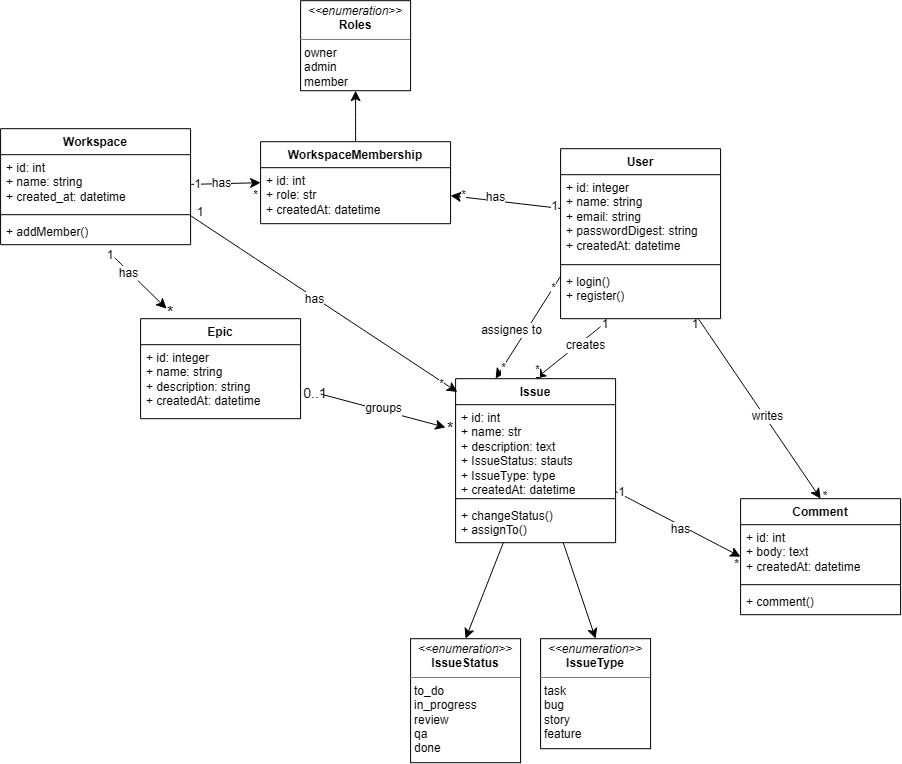
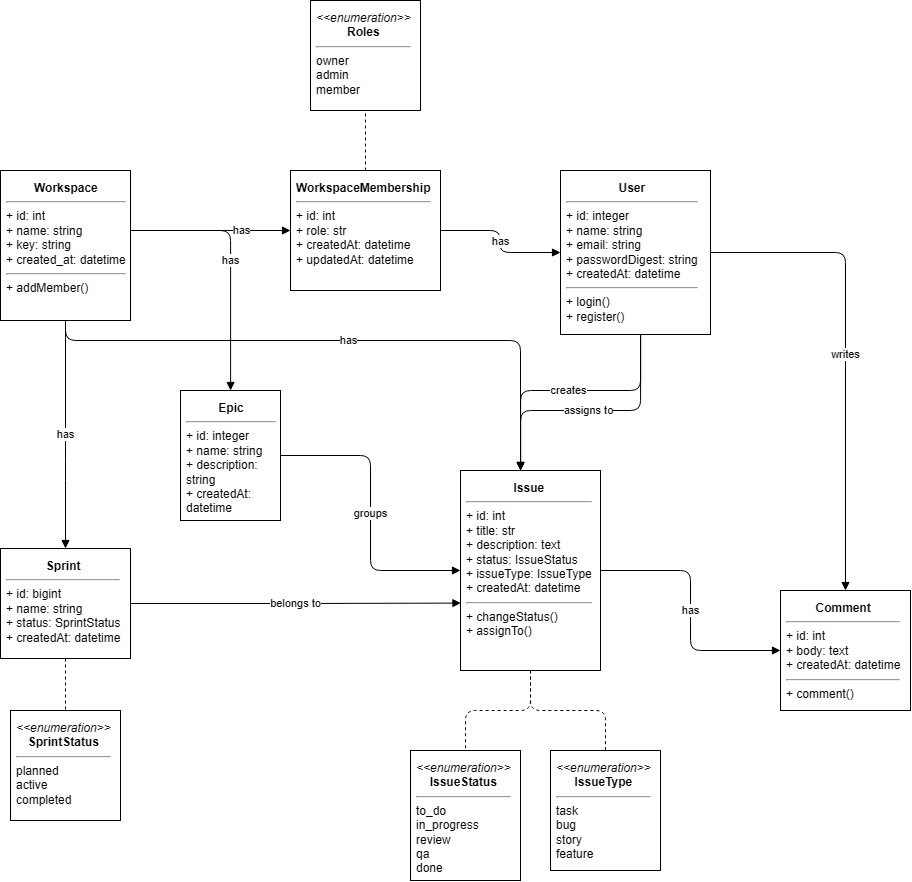
update docs staff

diff --git a/README.md b/README.md
@@ -9,17 +9,17 @@ This repository contains the backend API for a Jira-inspired workspace-based iss
 - [`api/`](api/README.md) Rails API app with models, database schema, tests, and configuration.
 - [`workflow_engine/`](workflow_engine/README.md) framework-independent Ruby gem that validates issue status transitions.
 - [`docs/`](docs/README.md) project documentation covering setup, environment variables, schema, and user stories.
-- [`web/`](web/README.md) frontend placeholder for future UI work.
+- [`web/`](web/README.md) React/Vite frontend for authentication and workspace planning.
 
 ## Current implementation status
 
 - Rails API backend is the main implemented component.
 - Session-based authentication is implemented for registration, login, current-user lookup, and logout.
 - Workspace CRUD is implemented with Pundit authorization for owner, admin, and member roles.
-- Workspaces, memberships, epics, issues, and comments are modeled in the API; issue filtering, comments, and membership management endpoints are planned.
+- Workspaces, memberships, epics, issues, sprints, and comments are modeled in the API. Issue filtering, sprint management, and comment endpoints are implemented; membership management endpoints remain planned.
 - Issue status transition rules are encapsulated in the standalone `workflow_engine` gem and integrated through `MoveIssueService`.
 - Model and request specs cover the implemented authentication, workspace, Epic, and Issue behavior.
-- The frontend application is still a placeholder and not yet implemented.
+- The frontend provides authentication, workspace selection and creation, project summaries, an issue board, backlog and sprint views, and epic management.
 
 ## Quick start
 
@@ -38,4 +38,4 @@ See the docs for exact commands and environment setup.
 - [`docs/user_story.md`](docs/user_story.md) — role-based stories and API scope
 - [`api/README.md`](api/README.md) — API-level commands and notes
 - [`workflow_engine/README.md`](workflow_engine/README.md) — WorkflowEngine gem usage and transition rules
-- [`web/README.md`](web/README.md) — frontend placeholder
+- [`web/README.md`](web/README.md) — frontend setup and implemented UI scope

diff --git a/docs/DB.md b/docs/DB.md
@@ -30,6 +30,12 @@ Enum roles {
   member
 }
 
+Enum sprint_status {
+  planned
+  active
+  completed
+}
+
 Table users {
   id bigint [pk, increment]
   name varchar [not null]
@@ -79,6 +85,16 @@ Table issues {
   description text
   status issue_status [not null, default: 'to_do']
   issue_type issue_type [not null, default: 'task']
+  sprint_id bigint
+  created_at datetime
+  updated_at datetime
+}
+
+Table sprints {
+  id bigint [pk, increment]
+  workspace_id bigint [not null]
+  name varchar [not null]
+  status sprint_status [not null, default: 'planned']
   created_at datetime
   updated_at datetime
 }
@@ -101,6 +117,9 @@ Ref: issues.workspace_id > workspaces.id
 Ref: issues.epic_id > epics.id
 Ref: issues.creator_id > users.id
 Ref: issues.assignee_id > users.id
+Ref: issues.sprint_id > sprints.id
+
+Ref: sprints.workspace_id > workspaces.id
 
 Ref: comments.issue_id > issues.id
 Ref: comments.user_id > users.id
@@ -112,13 +131,16 @@ Ref: comments.user_id > users.id
 - `users.email` is required and unique.
 - `workspace_memberships` enforce one membership record per user per workspace.
 - `issues.status` and `issues.issue_type` are constrained by the enums defined in the Rails model.
+- `sprints.status` is constrained to `planned`, `active`, or `completed`.
 
 ## Key relationships
 
 - `users` ? `workspaces` is a many-to-many relationship through `workspace_memberships`, with `role` (`owner`, `admin`, `member`) indicating the user's authorization level in that workspace.
 - `workspaces` has many `epics`.
 - `workspaces` has many `issues`.
+- `workspaces` has many `sprints`.
 - `epics` has many `issues`, but an issue's `epic_id` is optional.
+- `sprints` have many issues, but an issue's `sprint_id` is optional.
 - `issues` has many `comments`.
 - `users` can create many `issues` via `creator_id` and may be assigned many `issues` via `assignee_id`.
 - `users` also own many `comments`.

diff --git a/docs/user_story.md b/docs/user_story.md
@@ -29,12 +29,14 @@ The API currently implements session-based authentication, workspace CRUD, Epic 
 * As a workspace member, I can delete an epic: `DELETE /api/v1/epics/:id`
 * As a workspace member, I can list issues in the workspace: `GET /api/v1/workspaces/:workspace_id/issues`
 * As a workspace member, I can filter issues by status, issue type, assignee, or Epic: `GET /api/v1/workspaces/:workspace_id/issues?status=in_progress&issue_type=bug&assignee_id=123&epic_id=5`
-* As a workspace member, I can list and manage workspace sprints: `GET|POST /api/v1/workspaces/:workspace_id/sprints`
+* As a workspace member, I can list and create workspace sprints: `GET|POST /api/v1/workspaces/:workspace_id/sprints`
 * As a workspace member, I can view, update, and delete a sprint: `GET|PATCH|DELETE /api/v1/sprints/:id`
 * As a workspace member, I can create an issue: `POST /api/v1/workspaces/:workspace_id/issues`
 * As a workspace member, I can view an issue: `GET /api/v1/issues/:id`
 * As a workspace member, I can update an issue: `PATCH /api/v1/issues/:id`
 * As a workspace member, I can delete an issue: `DELETE /api/v1/issues/:id`
+* As a workspace member, I can list and create comments on an issue: `GET|POST /api/v1/issues/:issue_id/comments`
+* As a comment author, I can update or delete my comment: `PATCH|DELETE /api/v1/comments/:id`
 
 **Workspace Admin (Role: admin)**
 
@@ -48,4 +50,4 @@ The API currently implements session-based authentication, workspace CRUD, Epic 
 
 ## Planned workspace features
 
-Membership management and comments are modeled in the database but their API endpoints are not implemented yet.
+Membership management endpoints are modeled in the domain but are not implemented yet.

diff --git a/web/README.md b/web/README.md
@@ -1,5 +1,31 @@
 # Web frontend
 
-This directory is reserved for the future frontend application. The repo currently focuses on the Rails API backend.
+The frontend is a React application built with Vite. It provides the main
+workspace planning experience against the Rails API.
 
-The frontend is not implemented yet.
+## Local development
+
+```bash
+cd web
+npm install
+npm run dev
+```
+
+The Vite development server proxies `/api` requests to the Rails API. Start the
+API separately from `api/` with `bin/rails server`.
+
+## Available views
+
+- Registration, login, current-user session handling, and logout
+- Workspace list and workspace creation
+- Project summary with issue, epic, sprint, and completed-issue counts
+- Issue board grouped by status
+- Backlog grouped by sprint
+- Active sprint view
+- Epic list with issues and issue creation
+
+Production builds can be created with:
+
+```bash
+npm run build
+```
